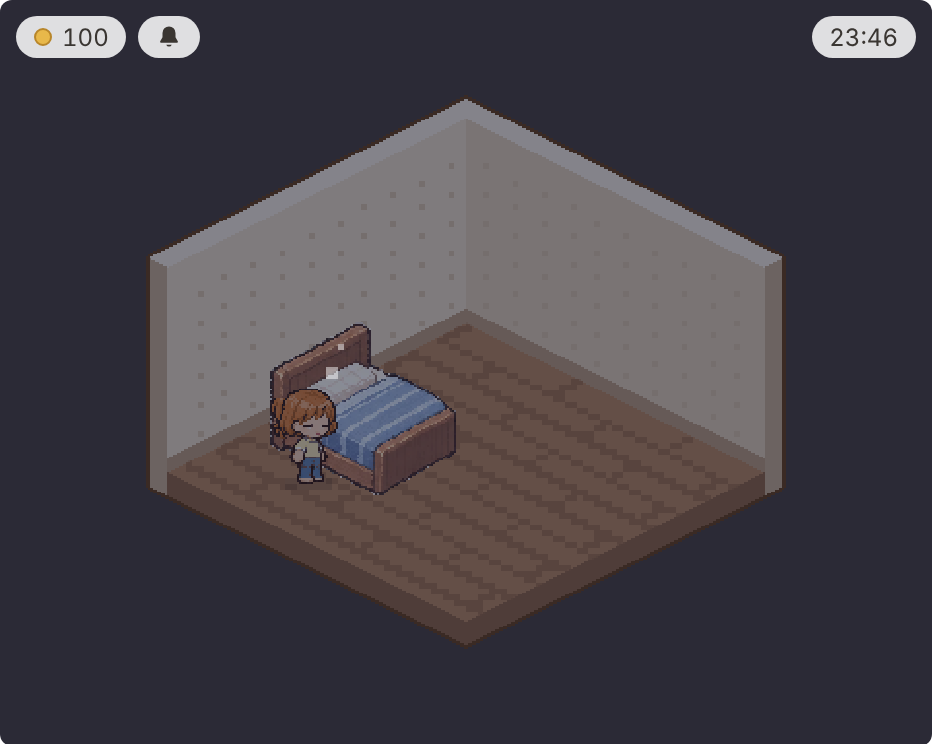
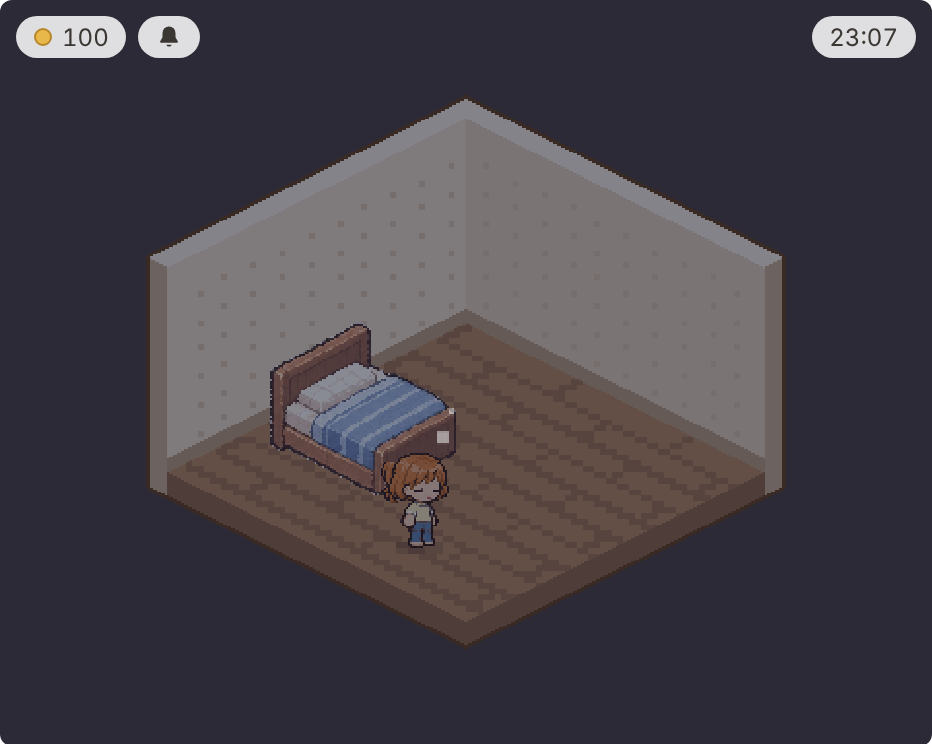
친구 방 구경: 친구가 가진 다른 방도 방 이름 버튼으로 구경
Claude-Session: https://claude.ai/code/session_017aF2aZeAYzMjvegGtH2ZQ4

Changed region(s): [[0.4045, 0.5565, 0.4979, 0.7419], [0.28, 0.4946, 0.3734, 0.6492], [0.9335, 0.0309, 0.9646, 0.0618]]

diff --git a/game.js b/game.js
@@ -3629,7 +3629,7 @@ function hereOwner() {
 }
 
 function walkerVisible(w) {
-  return w.place === hereOwner() && (visiting || w.roomId === room.id);
+  return w.place === hereOwner() && (!w.roomId || w.roomId === room.id); // 같은 방에 있는 사람만
 }
 
 function placeWalker(w) {
@@ -5370,11 +5370,14 @@ window.addEventListener("pagehide", earn);
 // 구경하는 동안에는 저장·코인·타이머가 멈추고, 돌아오면 내 데이터로 되돌아갑니다.
 function visitSave(snap) {
   const roomId = ROOMS.some((r) => r.id === snap.roomId) ? snap.roomId : "studio";
+  // 친구가 가진 방 전부 (예전 정보에는 지금 방만 있음)
+  const rooms = Object.assign({}, snap.rooms || {}, { [roomId]: { layout: snap.layout, styles: snap.styles } });
+  const ids = ROOMS.map((r) => r.id).filter((id) => rooms[id]);
   return Object.assign(Save.defaults(), {
     roomId,
-    ownedRooms: [roomId],
-    layouts: { [roomId]: Array.isArray(snap.layout) ? snap.layout : [] },
-    roomStyles: { [roomId]: snap.styles || {} },
+    ownedRooms: ids,
+    layouts: Object.fromEntries(ids.map((id) => [id, Array.isArray(rooms[id].layout) ? rooms[id].layout : []])),
+    roomStyles: Object.fromEntries(ids.map((id) => [id, rooms[id].styles || {}])),
     lampOn: snap.lampOn !== false,
     look: snap.look || {},
     pet: snap.pet || null,
@@ -5382,7 +5385,7 @@ function visitSave(snap) {
     profile: { name: snap.name || "", city: snap.city || null },
     timer: snap.timer || { length: 25, mode: null, endAt: 0, remain: 0 },
     profileDone: true,
-    decorDone: { [roomId]: true }, // 친구 방은 친구가 꾸민 그대로
+    decorDone: Object.fromEntries(ids.map((id) => [id, true])), // 친구 방은 친구가 꾸민 그대로
   });
 }
 
@@ -5392,16 +5395,42 @@ function startVisit(friend, snap) {
   closeShop();
   if (typeof Focus !== "undefined") Focus.close();
   Save.locked = true; // 구경하는 동안 내 저장 데이터를 건드리지 않게
-  visiting = { id: friend.id, name: friend.name };
   save = visitSave(snap || {});
+  visiting = { id: friend.id, name: friend.name, home: save.roomId }; // home: 친구가 지금 있는 방
   save.look = normLook(save.look);
   setVisitingClass(true);
   byId("visit-name").textContent = `${friend.name || "친구"}의 방`;
   byId("title").textContent = `${friend.name || "친구"}의 방 · 구경 중`;
   setRoom(save.roomId);
   placeGuest();
+  renderVisitRooms();
   refreshWeather(true);
   toast(`${friend.name || "친구"}님 방에 놀러 왔어요. 노란 표시가 있는 캐릭터가 나예요.`);
+}
+
+// 친구가 방을 여러 개 가졌으면 방 이름 버튼으로 옮겨 다니며 구경
+function renderVisitRooms() {
+  const box = byId("visit-rooms");
+  box.innerHTML = "";
+  const list = ROOMS.filter((r) => save.ownedRooms.includes(r.id));
+  box.hidden = list.length < 2;
+  for (const r of list) {
+    const b = document.createElement("button");
+    b.type = "button";
+    b.className = "visit-room" + (r.id === room.id ? " active" : "");
+    b.textContent = r.name;
+    b.addEventListener("click", () => visitRoom(r.id));
+    box.append(b);
+  }
+}
+
+function visitRoom(id) {
+  if (!visiting || id === room.id) return;
+  save.roomId = id;
+  setRoom(id);
+  placeGuest();
+  renderVisitRooms();
+  if (typeof Friends !== "undefined" && Friends.changeAwayRoom) Friends.changeAwayRoom(id);
 }
 
 // "친구 방 구경 중" 표시: 원래 창과 작은 창(위에 띄우기) 둘 다에 붙여야 '내 방으로' 줄이 보임

diff --git a/index.html b/index.html
@@ -5,7 +5,7 @@
   <meta name="viewport" content="width=device-width, initial-scale=1">
   <title>My Cozy Room</title>
   <!-- 파일 뒤의 ?v= 번호는 업데이트할 때마다 바꿉니다. (브라우저가 옛 파일을 쓰지 않도록) -->
-  <link rel="stylesheet" href="style.css?v=20261118-31">
+  <link rel="stylesheet" href="style.css?v=20261119-1">
   <!-- 화면 전환에 꼭 필요한 규칙 (디자인 파일을 늦게 받아도 화면이 섞이지 않게) -->
   <style>
     .screen { display: none; }
@@ -393,6 +393,7 @@
             <strong id="visit-name"></strong>
             <span id="visit-status" class="muted"></span>
           </div>
+          <div id="visit-rooms" class="visit-rooms" hidden></div>
           <div class="actions">
             <button id="visit-heart" type="button">하트 남기기</button>
             <button id="visit-guestbook" type="button">방명록</button>
@@ -435,23 +436,23 @@
   </main>
 
   <!-- 순서 중요: 데이터 → 방 → 저장 → 게임 → 집중 → 첫 화면 → 로그인 -->
-  <script src="data.js?v=20261118-31"></script>
-  <script src="rooms.js?v=20261118-31"></script>
-  <script src="save.js?v=20261118-31"></script>
-  <script src="hero-art.js?v=20261118-31"></script>
-  <script src="acc-art.js?v=20261118-31"></script>
-  <script src="pet-art.js?v=20261118-31"></script>
-  <script src="outfit-art.js?v=20261118-31"></script>
-  <script src="lie-front-art.js?v=20261118-31"></script>
-  <script src="game.js?v=20261118-31"></script>
-  <script src="focus.js?v=20261118-31"></script>
-  <script src="side.js?v=20261118-31"></script>
-  <script src="start.js?v=20261118-31"></script>
-  <script src="friends.js?v=20261118-31"></script>
+  <script src="data.js?v=20261119-1"></script>
+  <script src="rooms.js?v=20261119-1"></script>
+  <script src="save.js?v=20261119-1"></script>
+  <script src="hero-art.js?v=20261119-1"></script>
+  <script src="acc-art.js?v=20261119-1"></script>
+  <script src="pet-art.js?v=20261119-1"></script>
+  <script src="outfit-art.js?v=20261119-1"></script>
+  <script src="lie-front-art.js?v=20261119-1"></script>
+  <script src="game.js?v=20261119-1"></script>
+  <script src="focus.js?v=20261119-1"></script>
+  <script src="side.js?v=20261119-1"></script>
+  <script src="start.js?v=20261119-1"></script>
+  <script src="friends.js?v=20261119-1"></script>
   <!-- 구글 로그인 (Supabase) -->
   <script src="https://cdn.jsdelivr.net/npm/@supabase/supabase-js@2.45.4/dist/umd/supabase.min.js"></script>
-  <script src="cloud.js?v=20261118-31"></script>
-  <script src="gcal.js?v=20261118-31"></script>
-  <script src="news.js?v=20261118-31"></script>
+  <script src="cloud.js?v=20261119-1"></script>
+  <script src="gcal.js?v=20261119-1"></script>
+  <script src="news.js?v=20261119-1"></script>
 </body>
 </html>

diff --git a/friends.js b/friends.js
@@ -139,6 +139,7 @@ const Friends = (() => {
   }
 
   // 친구 방: 방 주인이 접속해 있으면 주인 캐릭터의 실제 움직임을 따라가고, 다른 방문자도 보여줌
+  let ownerOnline = false;
   function joinAway(friend, roomId) {
     leaveAway();
     if (!db.channel) return;
@@ -155,7 +156,7 @@ const Friends = (() => {
     });
     ch.on("broadcast", { event: "move" }, ({ payload }) => {
       if (!payload) return;
-      if (payload.kind === "hero") applyMove(hero, payload);
+      if (payload.kind === "hero") { if (heroLive()) applyMove(hero, payload); }
       else if (payload.kind === "guest" && payload.id !== me.id) moveWalker(payload.id, payload);
     });
     ch.subscribe((status) => {
@@ -167,8 +168,20 @@ const Friends = (() => {
     setOwnerOnline(false);
   }
 
+  // 친구 캐릭터의 실제 움직임은 친구가 지금 있는 방(처음 들어온 방)을 볼 때만 따라감
+  const heroLive = () => ownerOnline && visiting && room.id === visiting.home;
+
+  // 구경 중 다른 방으로: 내 위치(방)를 다시 알리고, 다른 방문자는 같은 방에 있는 사람만 보임
+  function changeAwayRoom(roomId) {
+    setHeroRemote(heroLive());
+    if (!awayCh) return;
+    awayCh.track({ role: "visitor", id: me.id, name: myName(), look: mySave().look, roomId });
+    send(awayCh, Object.assign({ kind: "guest", id: me.id }, moveState(guest)));
+  }
+
   function setOwnerOnline(on) {
-    setHeroRemote(on);
+    ownerOnline = on;
+    setHeroRemote(heroLive());
     if (!visiting) return;
     $("visit-status").textContent = on ? `${visiting.name}님이 방에 있어요` : `${visiting.name}님은 지금 자리에 없어요`;
   }
@@ -234,6 +247,8 @@ const Friends = (() => {
       roomId: room.id,
       layout: save.layouts[room.id] || room.layout,
       styles: save.roomStyles[room.id] || {},
+      // 가진 방 전부 (친구가 놀러 와서 다른 방도 구경할 수 있게)
+      rooms: Object.fromEntries(ROOMS.filter(owned).map((r) => [r.id, { layout: save.layouts[r.id] || r.layout, styles: save.roomStyles[r.id] || {} }])),
       lampOn: save.lampOn,
       timer: t.mode === "focus" && t.endAt ? { length: t.length, mode: "focus", endAt: t.endAt, remain: 0 } : null,
     };
@@ -793,5 +808,5 @@ const Friends = (() => {
     if (!panel.hidden && view !== "chat") render();
   }
 
-  return { start, stop, publish, refresh, claim, open, close, redraw, showBirthday, myId: () => (me ? me.id : null) };
+  return { start, stop, publish, changeAwayRoom, refresh, claim, open, close, redraw, showBirthday, myId: () => (me ? me.id : null) };
 })();

diff --git a/style.css b/style.css
@@ -1324,7 +1324,13 @@ button.danger {
   font-size: 14px;
 }
 
-body.visiting .visit-bar { display: flex; }
+body.visiting .visit-bar { display: flex; flex-wrap: wrap; }
+
+/* 친구 방 구경: 방 고르기 (방이 2개 이상일 때) */
+.visit-rooms { display: flex; flex-wrap: wrap; gap: 4px; }
+.visit-rooms[hidden] { display: none; }
+.visit-bar .visit-room { padding: 4px 10px; font-size: 12px; border-radius: 999px; }
+.visit-bar .visit-room.active { color: #ffffff; background: var(--text); border-color: var(--text); }
 
 body.visiting .toolbar,
 body.visiting .coin-pill,
